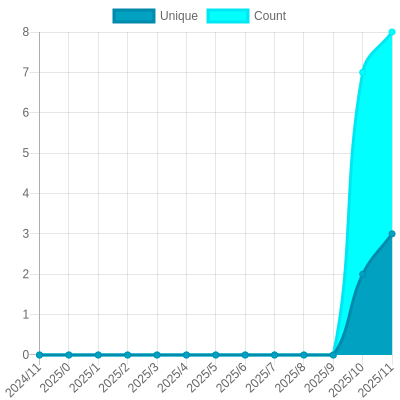
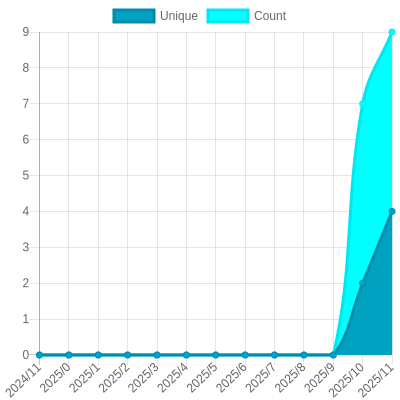
Update views

diff --git a/readme/812870990/year.md b/readme/812870990/year.md
@@ -1,7 +1,7 @@
 ## [🔙 github-profile-views-counter](https://github.com/QubitPi/github-profile-views-counter)
 
-### :octocat: [graph-db-import-web](https://github.com/QubitPi/graph-db-import-web)
-![Image of github-profile-views-counter](https://github.com/QubitPi/github-profile-views-counter/blob/master/graph/891368055/large/year.png)
+### :octocat: [general-relativity](https://github.com/QubitPi/general-relativity)
+![Image of github-profile-views-counter](https://github.com/QubitPi/github-profile-views-counter/blob/master/graph/812870990/large/year.png)
 
 <details>
 	<summary>Click to expand table</summary>
@@ -23,10 +23,10 @@
 			<code>2024/12/1</code>
 		</td>
 		<td>
-			<code>2</code>
+			<code>3</code>
 		</td>
 		<td>
-			<code>2</code>
+			<code>9</code>
 		</td>
 	</tr>
 	<tr>
@@ -164,18 +164,18 @@
 </table>
 
 </details>
-<small><i>Last updated on 2024/12/19 2:20 AM UTC</i></small>
+<small><i>Last updated on 2024/12/19 2:22 AM UTC</i></small>
 
 ## ✂Copy and 📋 Paste
 ### SVG Badge
-[![Image of github-profile-views-counter](https://github.com/QubitPi/github-profile-views-counter/blob/master/svg/891368055/badge.svg)](https://github.com/QubitPi/github-profile-views-counter/blob/master/readme/891368055/week.md)
+[![Image of github-profile-views-counter](https://github.com/QubitPi/github-profile-views-counter/blob/master/svg/812870990/badge.svg)](https://github.com/QubitPi/github-profile-views-counter/blob/master/readme/812870990/week.md)
 ```readme
-[![Image of github-profile-views-counter](https://github.com/QubitPi/github-profile-views-counter/blob/master/svg/891368055/badge.svg)](https://github.com/QubitPi/github-profile-views-counter/blob/master/readme/891368055/week.md)
+[![Image of github-profile-views-counter](https://github.com/QubitPi/github-profile-views-counter/blob/master/svg/812870990/badge.svg)](https://github.com/QubitPi/github-profile-views-counter/blob/master/readme/812870990/week.md)
 ```
 ### Header
-# graph-db-import-web [<img alt="Image of github-profile-views-counter" src="https://github.com/QubitPi/github-profile-views-counter/blob/master/graph/891368055/small/year.png" height="20">](https://github.com/QubitPi/github-profile-views-counter/blob/master/readme/891368055/year.md)
+# general-relativity [<img alt="Image of github-profile-views-counter" src="https://github.com/QubitPi/github-profile-views-counter/blob/master/graph/812870990/small/year.png" height="20">](https://github.com/QubitPi/github-profile-views-counter/blob/master/readme/812870990/year.md)
 ```readme
-# graph-db-import-web [<img alt="Image of github-profile-views-counter" src="https://github.com/QubitPi/github-profile-views-counter/blob/master/graph/891368055/small/year.png" height="20">](https://github.com/QubitPi/github-profile-views-counter/blob/master/readme/891368055/year.md)
+# general-relativity [<img alt="Image of github-profile-views-counter" src="https://github.com/QubitPi/github-profile-views-counter/blob/master/graph/812870990/small/year.png" height="20">](https://github.com/QubitPi/github-profile-views-counter/blob/master/readme/812870990/year.md)
 ```
 [**Set up GitHub Profile Views Counter for your repositories**](https://github.com/gayanvoice/github-profile-views-counter)
 ## ⛔ DO NOT

diff --git a/readme/905150612/year.md b/readme/905150612/year.md
@@ -1,7 +1,7 @@
 ## [🔙 github-profile-views-counter](https://github.com/QubitPi/github-profile-views-counter)
 
-### :octocat: [graph-db-import-web](https://github.com/QubitPi/graph-db-import-web)
-![Image of github-profile-views-counter](https://github.com/QubitPi/github-profile-views-counter/blob/master/graph/891368055/large/year.png)
+### :octocat: [wilhelm-ws-release-definition](https://github.com/QubitPi/wilhelm-ws-release-definition)
+![Image of github-profile-views-counter](https://github.com/QubitPi/github-profile-views-counter/blob/master/graph/905150612/large/year.png)
 
 <details>
 	<summary>Click to expand table</summary>
@@ -26,7 +26,7 @@
 			<code>2</code>
 		</td>
 		<td>
-			<code>2</code>
+			<code>21</code>
 		</td>
 	</tr>
 	<tr>
@@ -164,18 +164,18 @@
 </table>
 
 </details>
-<small><i>Last updated on 2024/12/19 2:20 AM UTC</i></small>
+<small><i>Last updated on 2024/12/19 2:21 AM UTC</i></small>
 
 ## ✂Copy and 📋 Paste
 ### SVG Badge
-[![Image of github-profile-views-counter](https://github.com/QubitPi/github-profile-views-counter/blob/master/svg/891368055/badge.svg)](https://github.com/QubitPi/github-profile-views-counter/blob/master/readme/891368055/week.md)
+[![Image of github-profile-views-counter](https://github.com/QubitPi/github-profile-views-counter/blob/master/svg/905150612/badge.svg)](https://github.com/QubitPi/github-profile-views-counter/blob/master/readme/905150612/week.md)
 ```readme
-[![Image of github-profile-views-counter](https://github.com/QubitPi/github-profile-views-counter/blob/master/svg/891368055/badge.svg)](https://github.com/QubitPi/github-profile-views-counter/blob/master/readme/891368055/week.md)
+[![Image of github-profile-views-counter](https://github.com/QubitPi/github-profile-views-counter/blob/master/svg/905150612/badge.svg)](https://github.com/QubitPi/github-profile-views-counter/blob/master/readme/905150612/week.md)
 ```
 ### Header
-# graph-db-import-web [<img alt="Image of github-profile-views-counter" src="https://github.com/QubitPi/github-profile-views-counter/blob/master/graph/891368055/small/year.png" height="20">](https://github.com/QubitPi/github-profile-views-counter/blob/master/readme/891368055/year.md)
+# wilhelm-ws-release-definition [<img alt="Image of github-profile-views-counter" src="https://github.com/QubitPi/github-profile-views-counter/blob/master/graph/905150612/small/year.png" height="20">](https://github.com/QubitPi/github-profile-views-counter/blob/master/readme/905150612/year.md)
 ```readme
-# graph-db-import-web [<img alt="Image of github-profile-views-counter" src="https://github.com/QubitPi/github-profile-views-counter/blob/master/graph/891368055/small/year.png" height="20">](https://github.com/QubitPi/github-profile-views-counter/blob/master/readme/891368055/year.md)
+# wilhelm-ws-release-definition [<img alt="Image of github-profile-views-counter" src="https://github.com/QubitPi/github-profile-views-counter/blob/master/graph/905150612/small/year.png" height="20">](https://github.com/QubitPi/github-profile-views-counter/blob/master/readme/905150612/year.md)
 ```
 [**Set up GitHub Profile Views Counter for your repositories**](https://github.com/gayanvoice/github-profile-views-counter)
 ## ⛔ DO NOT

diff --git a/README.md b/README.md
@@ -181,6 +181,22 @@ The project created and maintained by [gayanvoice](https://github.com/gayanvoice
 	</tr>
 	<tr>
 		<td>
+			<a href="https://github.com/QubitPi/github-profile-views-counter/tree/master/readme/905150612/year.md">
+				wilhelm-ws-release-definition
+			</a>
+		</td>
+		<td>
+			2024/12/16 2:21 AM UTC
+		</td>
+		<td>
+			2
+		</td>
+		<td>
+			<img alt="Response time graph" src="https://github.com/QubitPi/github-profile-views-counter/raw/master/graph/905150612/small/year.png" height="20"> 21
+		</td>
+	</tr>
+	<tr>
+		<td>
 			<a href="https://github.com/QubitPi/github-profile-views-counter/tree/master/readme/846824431/year.md">
 				wilhelm-data-loader
 			</a>
@@ -387,9 +403,25 @@ The project created and maintained by [gayanvoice](https://github.com/gayanvoice
 			<img alt="Response time graph" src="https://github.com/QubitPi/github-profile-views-counter/raw/master/graph/781440408/small/year.png" height="20"> 25
 		</td>
 	</tr>
+	<tr>
+		<td>
+			<a href="https://github.com/QubitPi/github-profile-views-counter/tree/master/readme/812870990/year.md">
+				general-relativity
+			</a>
+		</td>
+		<td>
+			2024/12/16 2:22 AM UTC
+		</td>
+		<td>
+			3
+		</td>
+		<td>
+			<img alt="Response time graph" src="https://github.com/QubitPi/github-profile-views-counter/raw/master/graph/812870990/small/year.png" height="20"> 9
+		</td>
+	</tr>
 </table>
 
-<small><i>Last updated on 2024/12/19 12:19 AM UTC</i></small>
+<small><i>Last updated on 2024/12/19 2:22 AM UTC</i></small>
 
 ## ✂Copy and 📋 Paste
 ### Total Views Badge

diff --git a/readme/855627783/year.md b/readme/855627783/year.md
@@ -23,10 +23,10 @@
 			<code>2024/12/1</code>
 		</td>
 		<td>
-			<code>3</code>
+			<code>4</code>
 		</td>
 		<td>
-			<code>8</code>
+			<code>9</code>
 		</td>
 	</tr>
 	<tr>
@@ -164,7 +164,7 @@
 </table>
 
 </details>
-<small><i>Last updated on 2024/12/19 12:16 AM UTC</i></small>
+<small><i>Last updated on 2024/12/19 2:20 AM UTC</i></small>
 
 ## ✂Copy and 📋 Paste
 ### SVG Badge

diff --git a/readme/489849086/year.md b/readme/489849086/year.md
@@ -164,7 +164,7 @@
 </table>
 
 </details>
-<small><i>Last updated on 2024/12/19 12:19 AM UTC</i></small>
+<small><i>Last updated on 2024/12/19 2:22 AM UTC</i></small>
 
 ## ✂Copy and 📋 Paste
 ### SVG Badge

diff --git a/readme/504830443/year.md b/readme/504830443/year.md
@@ -164,7 +164,7 @@
 </table>
 
 </details>
-<small><i>Last updated on 2024/12/19 12:16 AM UTC</i></small>
+<small><i>Last updated on 2024/12/19 2:19 AM UTC</i></small>
 
 ## ✂Copy and 📋 Paste
 ### SVG Badge

diff --git a/readme/629319235/year.md b/readme/629319235/year.md
@@ -164,7 +164,7 @@
 </table>
 
 </details>
-<small><i>Last updated on 2024/12/19 12:18 AM UTC</i></small>
+<small><i>Last updated on 2024/12/19 2:22 AM UTC</i></small>
 
 ## ✂Copy and 📋 Paste
 ### SVG Badge

diff --git a/readme/631185801/year.md b/readme/631185801/year.md
@@ -164,7 +164,7 @@
 </table>
 
 </details>
-<small><i>Last updated on 2024/12/19 12:16 AM UTC</i></small>
+<small><i>Last updated on 2024/12/19 2:19 AM UTC</i></small>
 
 ## ✂Copy and 📋 Paste
 ### SVG Badge

diff --git a/readme/668055685/year.md b/readme/668055685/year.md
@@ -164,7 +164,7 @@
 </table>
 
 </details>
-<small><i>Last updated on 2024/12/19 12:19 AM UTC</i></small>
+<small><i>Last updated on 2024/12/19 2:22 AM UTC</i></small>
 
 ## ✂Copy and 📋 Paste
 ### SVG Badge

diff --git a/readme/731460525/year.md b/readme/731460525/year.md
@@ -164,7 +164,7 @@
 </table>
 
 </details>
-<small><i>Last updated on 2024/12/19 12:18 AM UTC</i></small>
+<small><i>Last updated on 2024/12/19 2:22 AM UTC</i></small>
 
 ## ✂Copy and 📋 Paste
 ### SVG Badge

diff --git a/readme/767864391/year.md b/readme/767864391/year.md
@@ -164,7 +164,7 @@
 </table>
 
 </details>
-<small><i>Last updated on 2024/12/19 12:17 AM UTC</i></small>
+<small><i>Last updated on 2024/12/19 2:20 AM UTC</i></small>
 
 ## ✂Copy and 📋 Paste
 ### SVG Badge

diff --git a/readme/771305523/year.md b/readme/771305523/year.md
@@ -164,7 +164,7 @@
 </table>
 
 </details>
-<small><i>Last updated on 2024/12/19 12:18 AM UTC</i></small>
+<small><i>Last updated on 2024/12/19 2:21 AM UTC</i></small>
 
 ## ✂Copy and 📋 Paste
 ### SVG Badge
